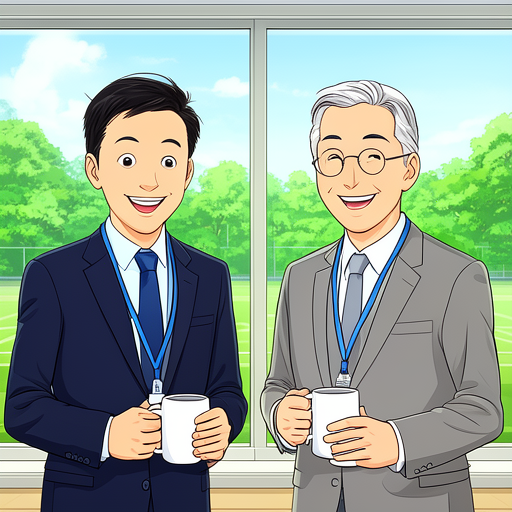
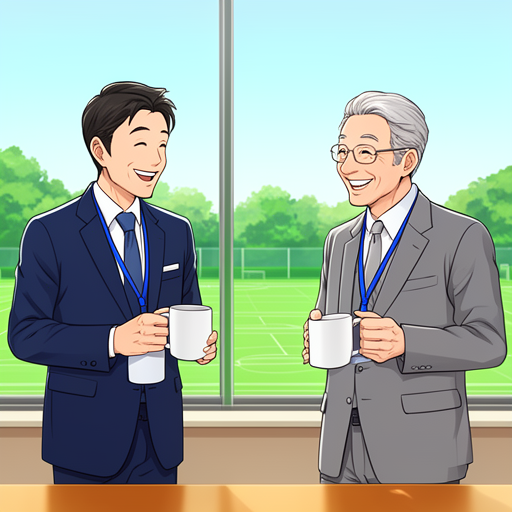
feat(illustrator): Replace illustration for #19 [CC06] with 4:3 non-frontal FLUX.2 9B

diff --git a/docs/index.html b/docs/index.html
@@ -18,7 +18,7 @@
       <div class="stat-pill"><strong>42</strong> 収録エピソード</div>
       <div class="stat-pill"><strong>42</strong> 挿絵付き作品</div>
       <div class="stat-pill">📘 A: <strong>15</strong> ／ 💻 B: <strong>13</strong> ／ ⚖ C: <strong>14</strong></div>
-      <div class="stat-pill">最終更新: 2026-10-09 21:35 JST</div>
+      <div class="stat-pill">最終更新: 2026-10-09 21:44 JST</div>
     </div>
   </header>
 
